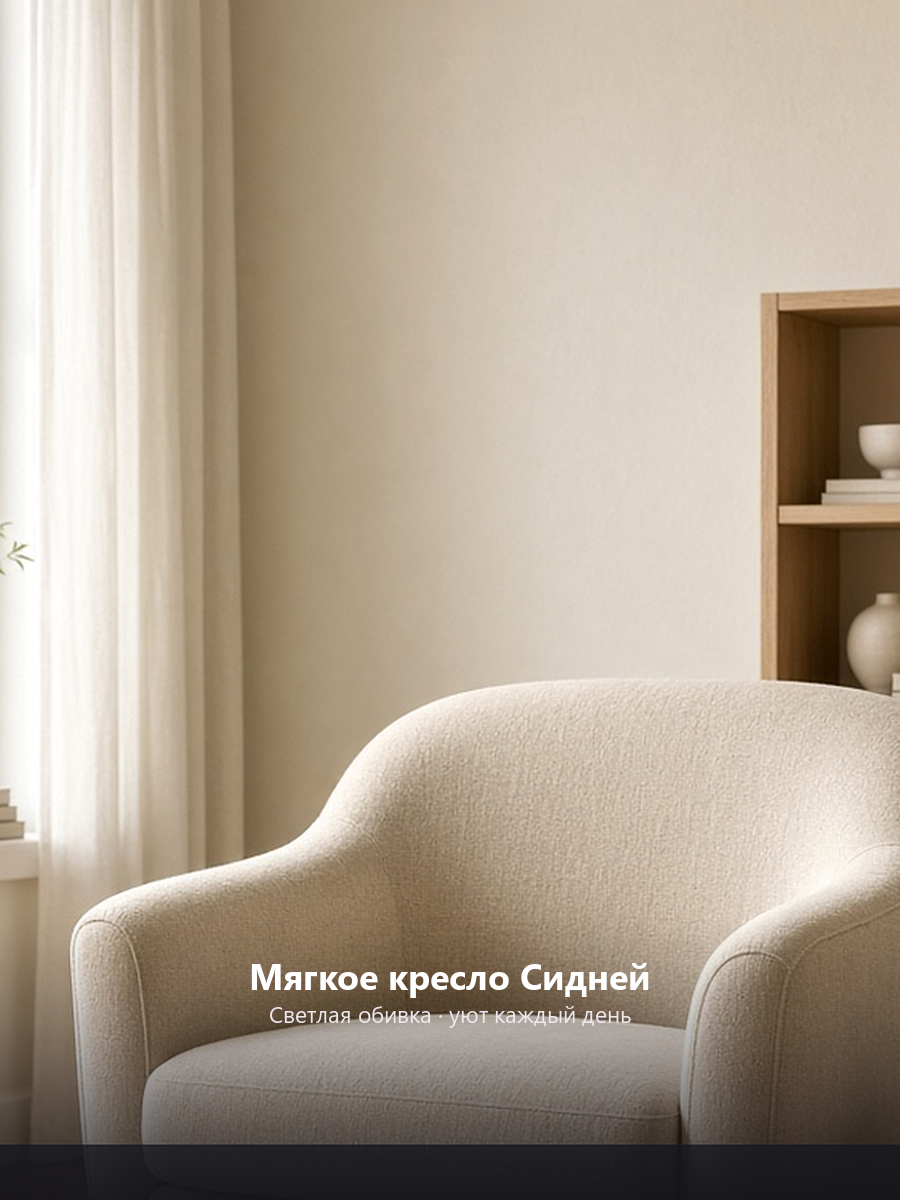
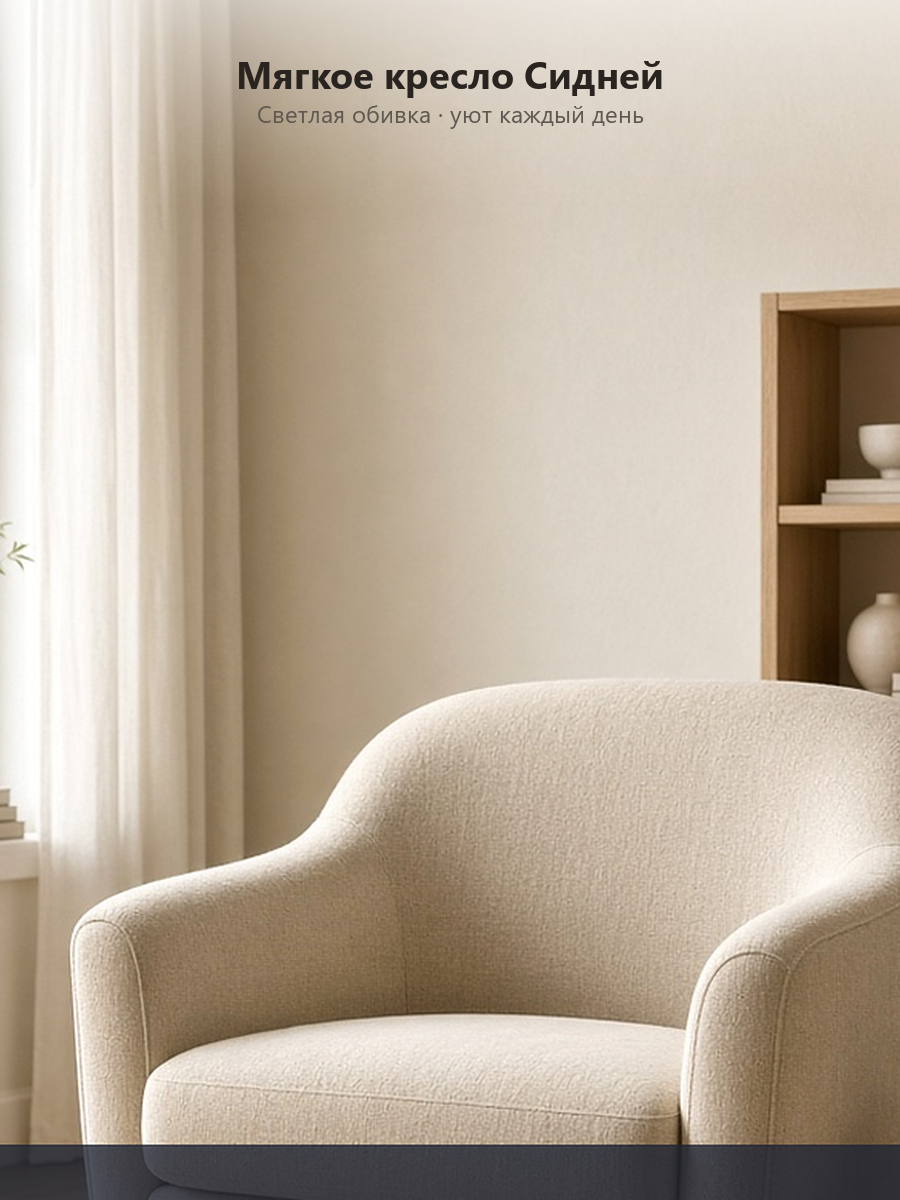
Place chair cover title above the chair for contrast.

Changed region(s): [[0.0, 0.8017, 1.0, 1.0], [0.0933, 0.0, 1.0, 0.1233]]

diff --git a/scripts/mp_layout_kit/rebuild_covers_fullbleed.py b/scripts/mp_layout_kit/rebuild_covers_fullbleed.py
@@ -145,13 +145,13 @@ def rebuild_shelf():
 
 
 def rebuild_chair():
+    """Title above the chair on the wall — white-on-cream seat had weak contrast."""
     c = COPY["case1_chair"]["01_cover"]
     src = Image.open(IMG / "case1" / "01_cover_interior.png").convert("RGB")
     src = crop_above_dark_bar(src, dark_thresh=100, min_y_frac=0.68)
     base = fit_cover(src, (W, H))
-    base = soft_bottom_gradient(base, strength=200).convert("RGB")
-    # title + sub from locked copy (not the long baked line)
-    draw_bottom_copy(base, c["title"], c["sub"], title_size=36, sub_size=23)
+    base = soft_top_scrim(base, height=210, strength=150).convert("RGB")
+    draw_top_copy(base, c["title"], c["sub"], title_size=38, sub_size=24, fill=(42, 36, 32), sub_fill=(95, 88, 80))
     save_png(base, IMG / "case1" / "01_cover_interior.png")
     print("chair cover")
 
